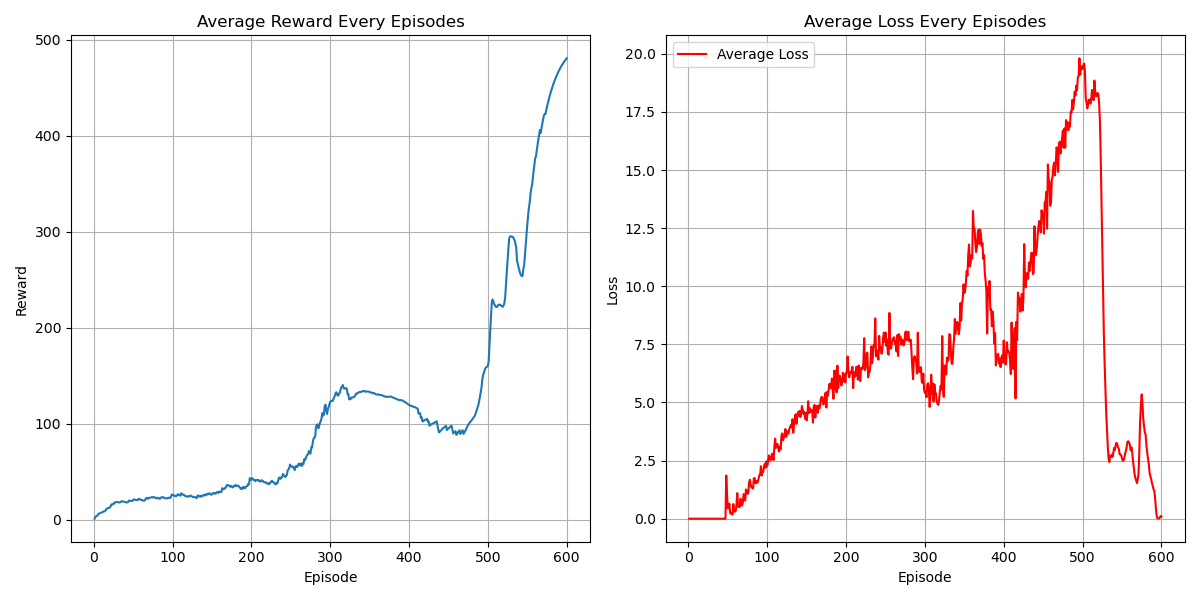
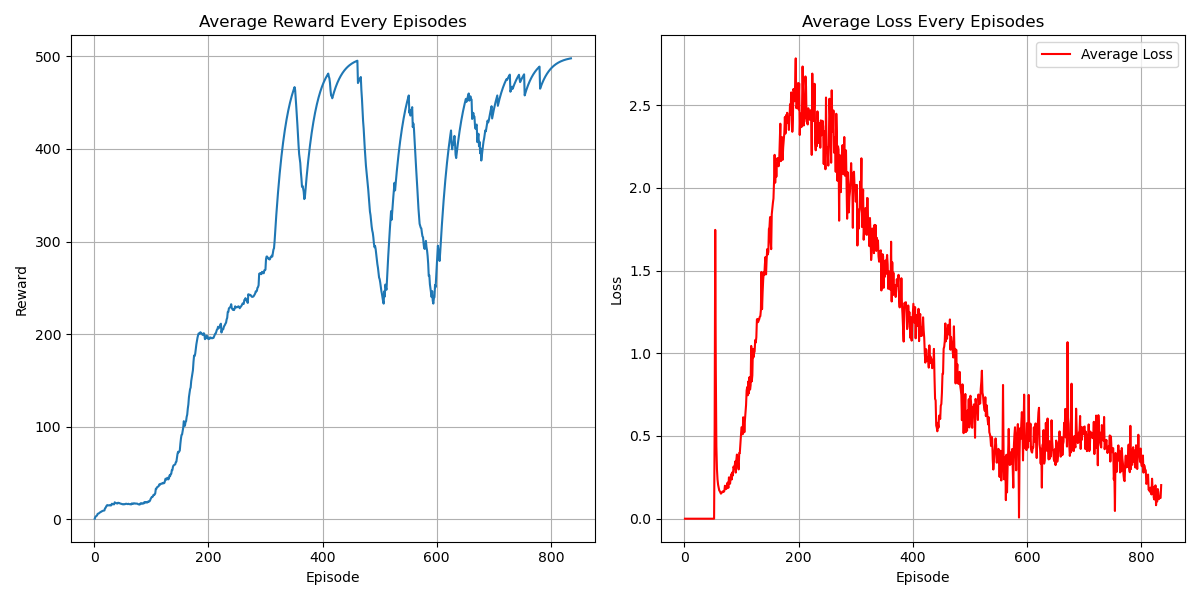
improve QRDQN

diff --git a/QRDQN/qrdqn.py b/QRDQN/qrdqn.py
@@ -1,7 +1,7 @@
 import os
 import sys
 import gym
-import random
+import math, random
 import argparse
 import numpy as np
 
@@ -51,6 +51,13 @@ def to_device(data):
     if isinstance(data, (list, tuple)):
         return [to_device(d, deviceGPU) for d in data]
     return data.to(deviceGPU)
+
+# Epsilon greedy decay as episodes increase
+epsilon_start = 1.0
+epsilon_final = 0.01
+epsilon_decay = 150
+
+epsilon_by_episode = lambda episode_idx: epsilon_final + (epsilon_start - epsilon_final) * math.exp(-1. * episode_idx / epsilon_decay)
 
 # NN model
 class QRCritic(nn.Module):
@@ -132,6 +139,7 @@ class QRDQNAGENT(object):
 
         self.optim.zero_grad()
         loss.backward()
+        nn.utils.clip_grad_norm_(self.qrcritic.parameters(), 10.0)
         self.optim.step()
 
         return loss
@@ -141,10 +149,10 @@ gamma = 0.99
 batch_size = 64
 lr = 0.001
 initial_exploration = 1000
-goal_score = 480
+goal_score = 490
 log_interval = 10
 update_target = 100
-replay_memory_capacity = 10000
+replay_memory_capacity = 100000
 
 num_support = 8
 
@@ -167,12 +175,13 @@ def main():
     
     epsilon = 1.0
     steps = 0
-    
+    success_count = 0
+
     for episode_idx in range(10000):
         initState,_ = env.reset()
         state = torch.Tensor(initState).to(deviceGPU)
         state = state.unsqueeze(0)
-
+        epsilon = epsilon_by_episode(episode_idx)
         terminate = False
         truncated = False
         episode_reward = 0
@@ -198,14 +207,14 @@ def main():
             state = next_state
 
             if steps > initial_exploration:
-                epsilon -= 0.00005
-                epsilon = max(epsilon, 0.1)
+                #epsilon -= 0.00005
+                #epsilon = max(epsilon, 0.1)
 
                 training_batch = replay_buffer.sample(batch_size)
                 tmpLoss = qrdqnAgent.update_parameter(training_batch)
                 loss += tmpLoss.item()
-                if steps % update_target == 0:
-                    hard_update(qrdqnAgent.qrcritic_target, qrdqnAgent.qrcritic)
+                #if steps % update_target == 0:
+                soft_update(qrdqnAgent.qrcritic_target, qrdqnAgent.qrcritic, 0.005)
         
         losses.append(loss/step)
 
@@ -217,8 +226,11 @@ def main():
                                                                                        episode_reward, ewma_reward, loss/step))
         # early terminate
         if ewma_reward > goal_score:
+            success_count += 1
+        else:
+            success_count = 0
+        if success_count >= 30:
             break
-    
 
     chunk_size = 1  # Every 1 episodes
     num_chunks = len(all_rewards) // chunk_size  # Number of chunks
